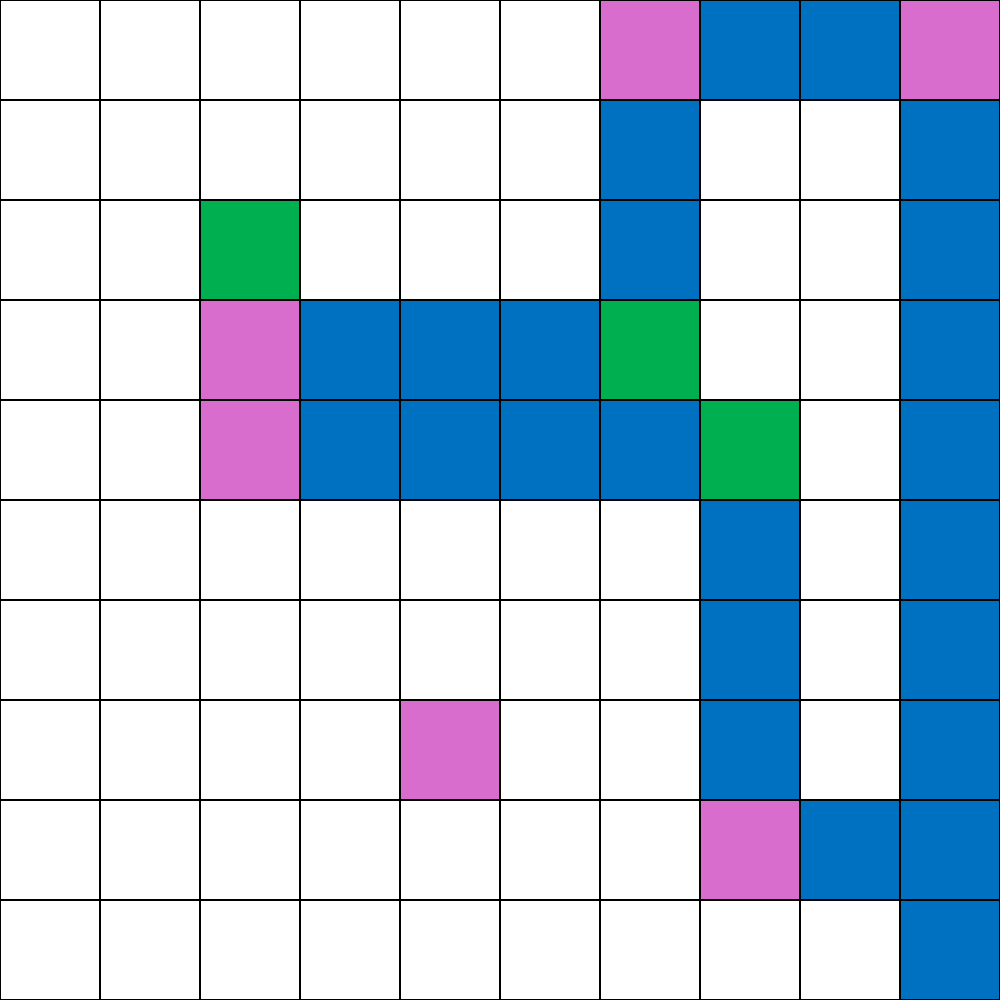
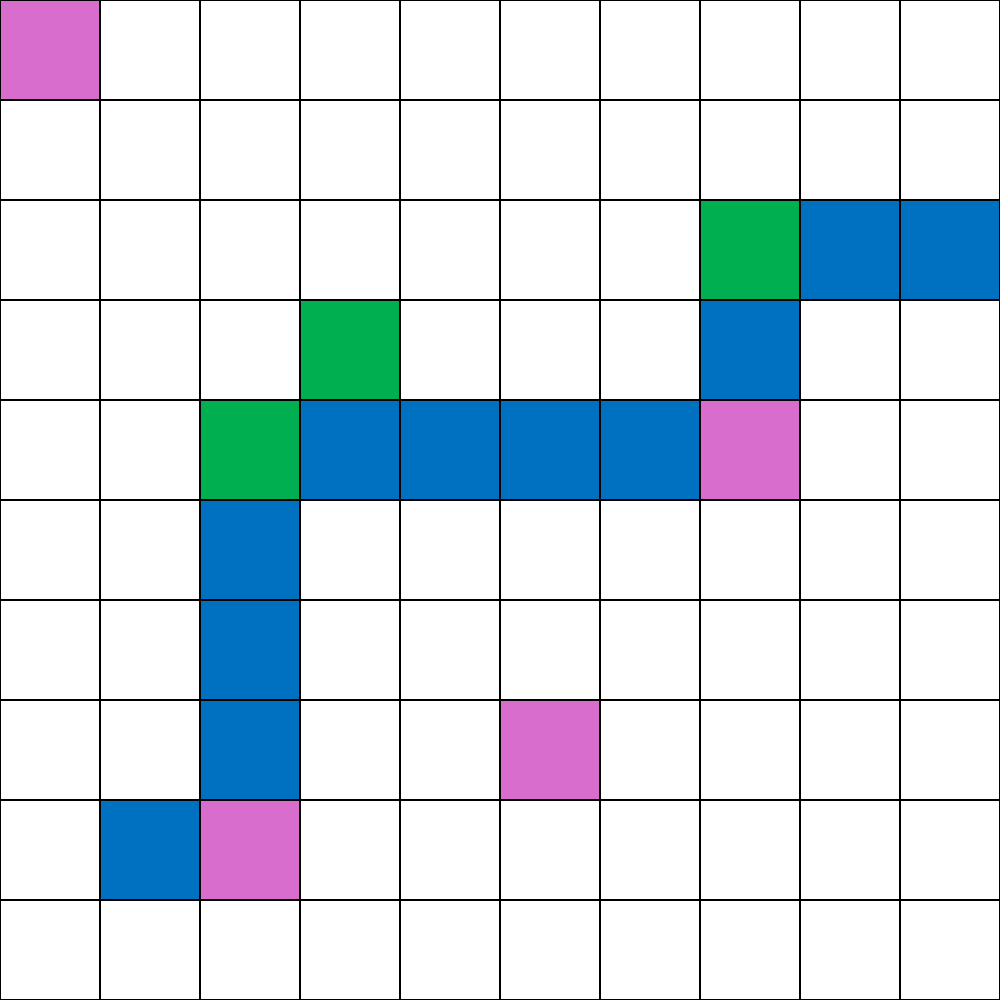
finally managed to make it work correctly. the code can be cleaner and clearer. i'll take a look once again before the meeting.

diff --git a/solution.py b/solution.py
@@ -1,4 +1,4 @@
-import pandas as pd
+import pandas as pd # type: ignore
 import json
 from openpyxl import load_workbook
 from PIL import Image, ImageDraw
@@ -20,14 +20,14 @@ for row in sheet.iter_rows(1,10):
     for cell in row:
         color = cell.fill.start_color.index
         input_data.append({"id": cell.coordinate, "color": color})
-        if color == "FF0070C0":
+        if color == BLUE:
             starting_point = cell.coordinate
-print(starting_point)
+#print(starting_point)
 
 """
-next step is to solve the problem: startting from only blue(FF0070C0) cell going towards right until reaching red(FFD86DCD) or green(FF00B050). 
+next step is to solve the problem: startting from only blue(FF0070C0) cell going towards right until reaching red(FFD86DCD) or green(FF00B050) or a uncoloured border to stop. 
 whhen reaching red direction changes to 90 degrees counterclockwise. when reaching green direction changes to 90 degrees clockwise. 
-and colours of white(normally FFFFFFFF but in jsondata it is 00000000 for some reason) cells along the way changes to blue(FF0070C0). if it reaches blue, it keeps going in the same direction. and goes until reaching the borders.
+and colours of white(normally FFFFFFFF but in jsondata it is 00000000 for some reason) cells along the way changes to blue(FF0070C0). if it reaches blue, it keeps going in the same direction.
 """
 
 # create 10x10 grid made of colors from input
@@ -50,7 +50,6 @@ start_col = ord(''.join(filter(str.isalpha, starting_point))) - ord('A')
 row = start_row
 col = start_col
 
-print((-2)%4)
 #move until reaching border, change direction when reached green or red
 while 0 <= row < 10 and 0 <= col < 10:
     color = grid[row][col]
@@ -64,15 +63,12 @@ while 0 <= row < 10 and 0 <= col < 10:
         direction = direction
         grid[row][col] = BLUE
 
+    #print(row, col)
     row_direction, col_direction = directions[direction]
     row += row_direction
     col += col_direction
 
-for i in range(10):
-    for j in range(10):
-        input_data[i * 10 + j]["color"] = grid[i][j]
-
-print(grid)
+#print(grid)
 
 #i'll try an output version i found on stack overflow
 image = Image.new('RGB', (1000, 1000), 'white')
@@ -86,7 +82,7 @@ for i in range(10):
         rectangle_x = i*rectangle_width
         rectangle_y = j*rectangle_height
     
-        color = grid[i][j]
+        color = grid[j][i]
 
         if color == BLUE:
             rgb_color = (0, 112, 192)
